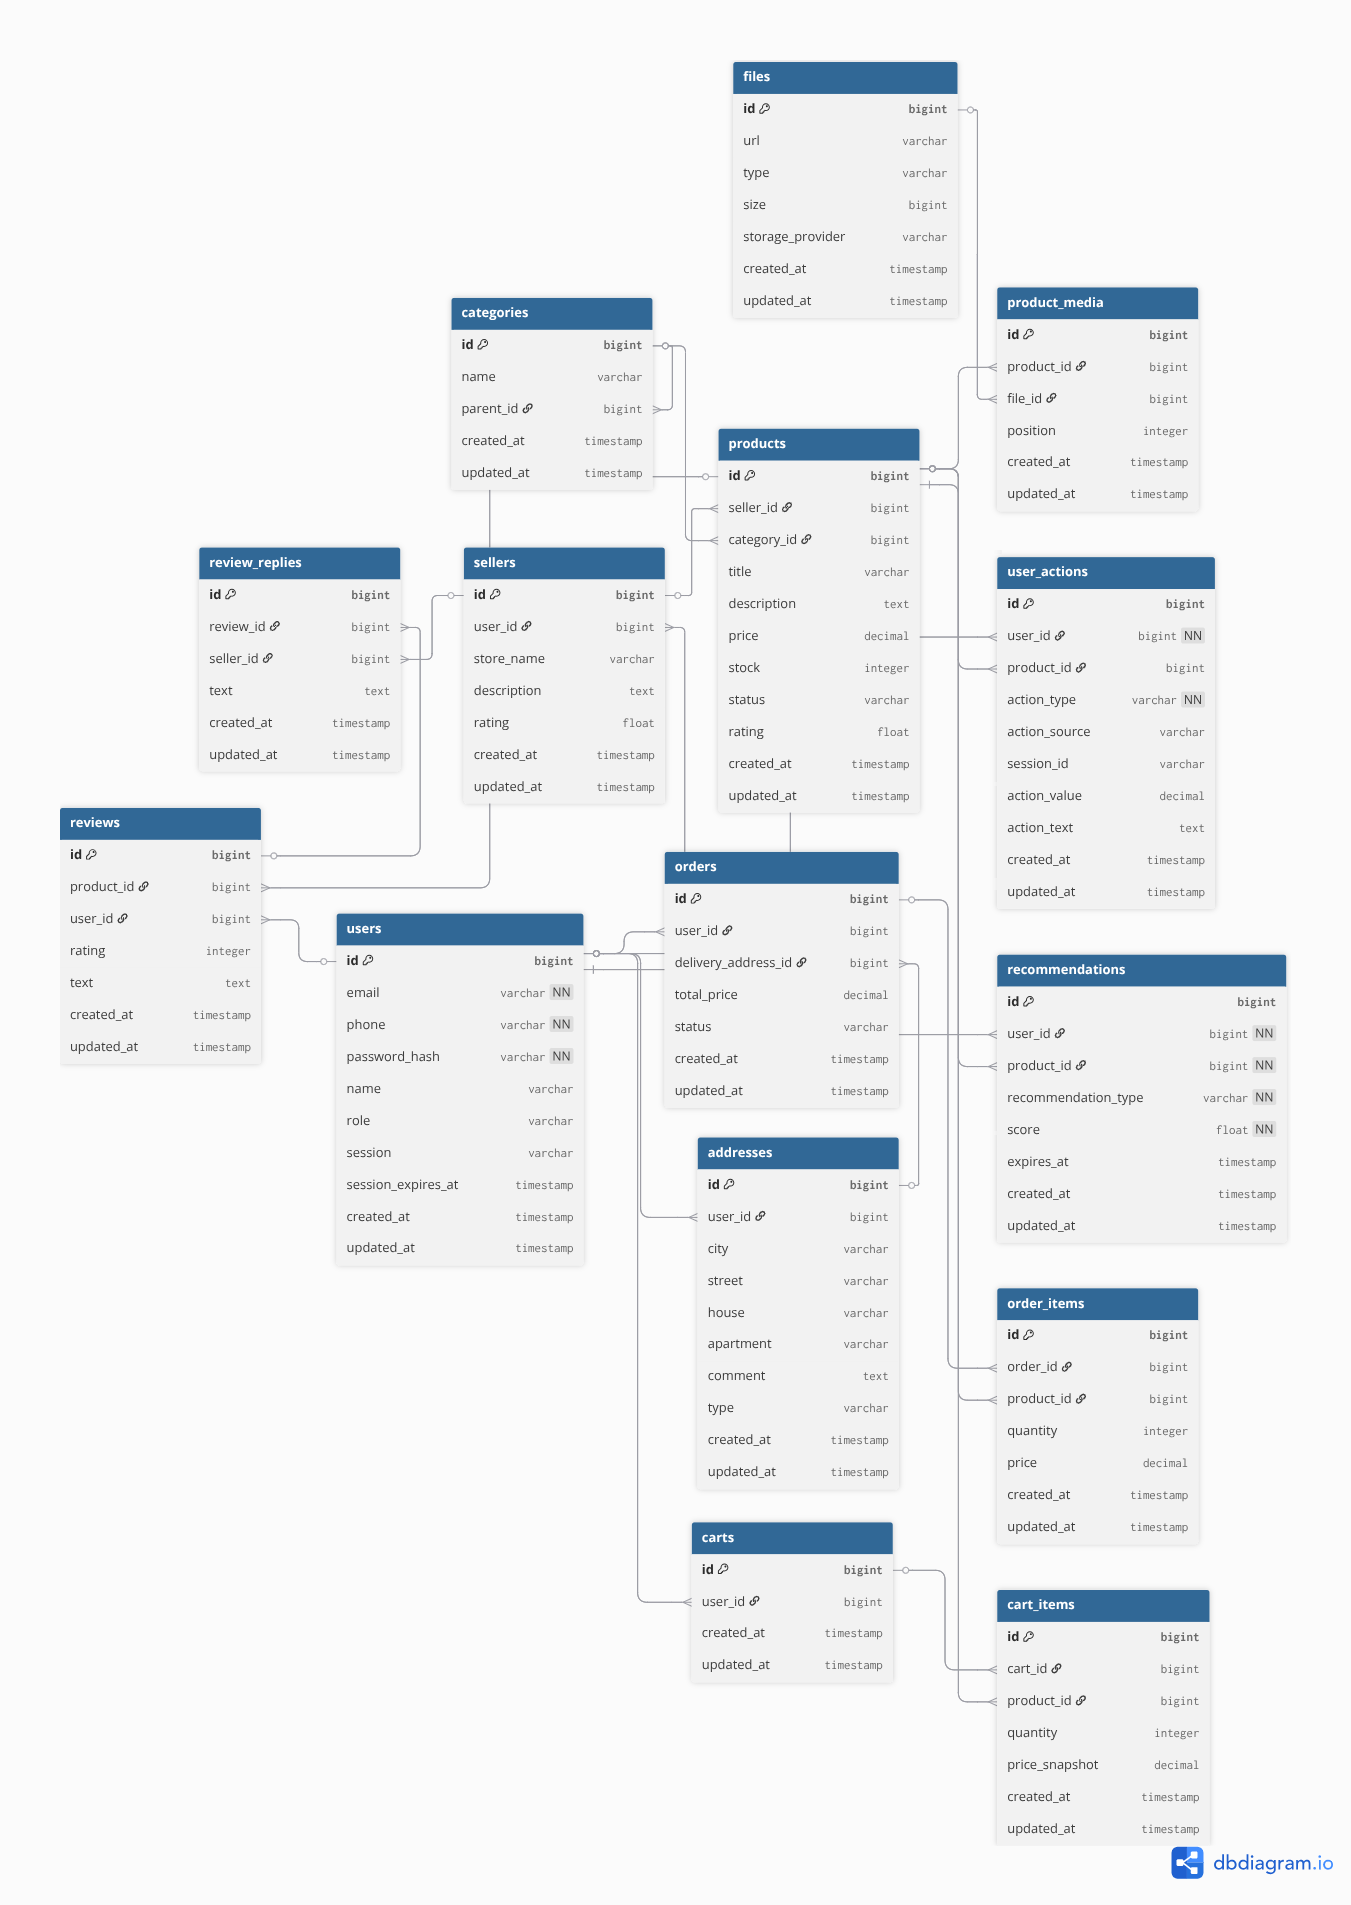
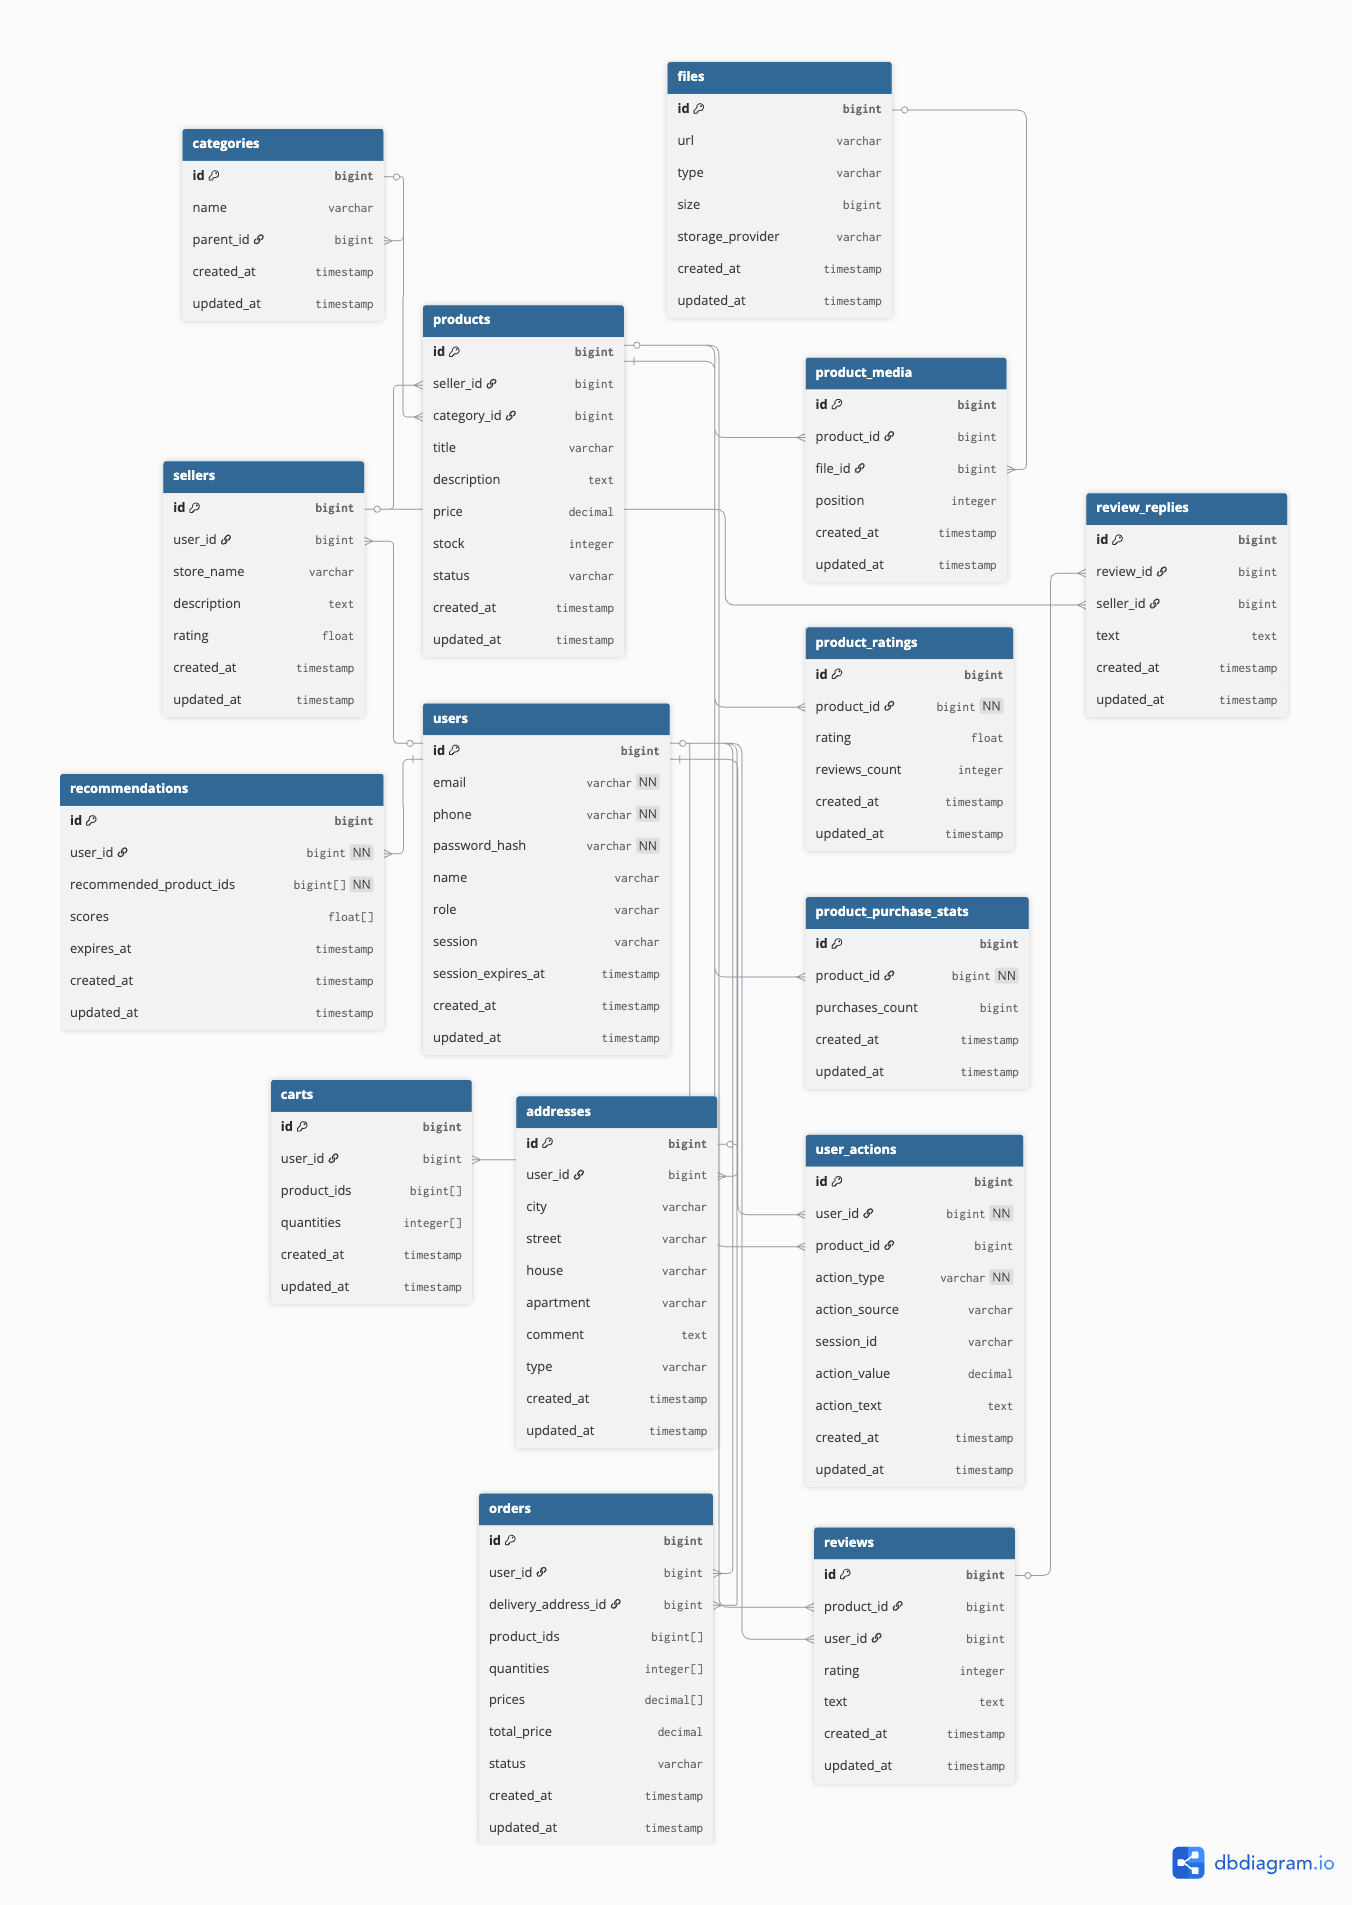
fix: logical diagram of db

diff --git a/README.md b/README.md
@@ -194,43 +194,43 @@ Ozon — один из крупнейших маркетплейсов в Рос
 
 ![Логическая схема БД](db.png)
 
-| Таблица         | Описание                                         |
-| --------------- | ------------------------------------------------ |
-| users           | Общая информация о пользователях                 |
-| sellers         | Информация о продавцах и их магазинах            |
-| products        | Основная информация о товарах                    |
-| categories      | Категории товаров                                |
-| product_media   | Связь товаров с медиафайлами                     |
-| files           | Информация о файлах (изображения товаров и т.д.) |
-| carts           | Корзины покупок пользователей                    |
-| cart_items      | Товары в корзине                                 |
-| orders          | Заказы пользователей                             |
-| order_items     | Товары в заказе                                  |
-| addresses       | Адреса доставки                                  |
-| reviews         | Отзывы пользователей о товарах                   |
-| review_replies  | Ответы продавцов на отзывы покупателей           |
-| user_actions    | Журнал действий пользователей для аналитики      |
-| recommendations | Рекомендации товаров                             |
+| Таблица | Описание |
+|---|---|
+| `users` | Общая информация о пользователях |
+| `sellers` | Информация о продавцах и их магазинах |
+| `products` | Основная информация о товарах |
+| `categories` | Категории товаров |
+| `product_media` | Связь товаров с медиафайлами |
+| `files` | Информация о файлах (изображения товаров и т.д.) |
+| `product_ratings` | Агрегированная информация о рейтинге товара и количестве отзывов |
+| `product_purchase_stats` | Агрегированная информация о количестве покупок товара |
+| `carts` | Корзины пользователей |
+| `orders` | Заказы пользователей |
+| `addresses` | Адреса доставки |
+| `reviews` | Отзывы и оценки пользователей о товарах |
+| `review_replies` | Ответы продавцов на отзывы покупателей |
+| `user_actions` | Журнал действий пользователей для аналитики |
+| `recommendations` | Персональные рекомендации товаров для пользователя |
 
 ### Расчет размеров таблиц и QPS
 
-| Название таблицы    | Расчет размера строки                                                                                                                                                         | Количество строк | Размер таблицы | Нагрузка на запись (QPS, пик) | Нагрузка на чтение (QPS, пик) |
-| ------------------- | ----------------------------------------------------------------------------------------------------------------------------------------------------------------------------- | ---------------- | -------------- | ----------------------------- | ----------------------------- |
-| **users**           | `ID(8) + email(255) + phone(20) + password_hash(60) + name(100) + role(20) + session(256) + session_expires_at(8) + created_at/updated_at(16)` <br>**≈ 743 Б**                | 83 млн           | **≈ 57.7 ГБ**  | 51                            | 49.8                          |
-| **addresses**       | `ID(8) + user_id(8) + city(100) + street(200) + house(20) + apartment(20) + comment(500) + type(20) + created_at/updated_at(16)` <br>**≈ 892 Б**                              | 166 млн          | **≈ 138 ГБ**   | 2                             | 73.6                          |
-| **sellers**         | `ID(8) + user_id(8) + store_name(255) + description(1000) + rating(8) + created_at/updated_at(16)` <br>**≈ 1.27 КБ**                                                          | 600 000          | **≈ 0.73 ГБ**  | 6.94                          | 29 860                        |
-| **categories**      | `ID(8) + name(100) + parent_id(8) + created_at/updated_at(16)` <br>**≈ 132 Б**                                                                                                | < 100 000        | **< 13 МБ**    | Редко                         | 35 832                        |
-| **products**        | `ID(8) + seller_id(8) + category_id(8) + title(255) + description(2000) + price(8) + stock(4) + status(20) + rating(8) + created_at/updated_at(16)` <br>**≈ 2.3 КБ**          | 250 млн          | **≈ 536 ГБ**   | 13.88                         | 29 860                        |
-| **files**           | `ID(8) + url(500) + type(50) + size(8) + storage_provider(50) + created_at/updated_at(16)` <br>**≈ 632 Б**                                                                    | 1.5 млрд         | **≈ 885 ГБ**   | 13.88                         | 29 860                        |
-| **product_media**   | `ID(8) + product_id(8) + file_id(8) + position(2) + created_at/updated_at(16)` <br>**≈ 42 Б**                                                                                 | 1.5 млрд         | **≈ 58.8 ГБ**  | 13.88                         | 29 860                        |
-| **carts**           | `ID(8) + user_id(8) + created_at/updated_at(16)` <br>**≈ 32 Б**                                                                                                               | 43 млн           | **≈ 1.3 ГБ**   | 614                           | 307                           |
-| **cart_items**      | `ID(8) + cart_id(8) + product_id(8) + quantity(2) + price_snapshot(8) + created_at/updated_at(16)` <br>**≈ 50 Б**                                                             | 79.5 млн         | **≈ 3.7 ГБ**   | 614                           | 307                           |
-| **orders**          | `ID(8) + user_id(8) + delivery_address_id(8) + total_price(8) + status(20) + created_at/updated_at(16)` <br>**≈ 68 Б**                                                        | 1.16 млрд        | **≈ 73.6 ГБ**  | 73.6                          | 73.6                          |
-| **order_items**     | `ID(8) + order_id(8) + product_id(8) + quantity(2) + price(8) + created_at/updated_at(16)` <br>**≈ 50 Б**                                                                     | 2.9 млрд         | **≈ 135 ГБ**   | 73.6                          | 73.6                          |
-| **reviews**         | `ID(8) + product_id(8) + user_id(8) + rating(1) + text(1000) + created_at/updated_at(16)` <br>**≈ 1.02 КБ**                                                                   | 522 млн          | **≈ 497 ГБ**   | 33.2                          | 17.4                          |
-| **review_replies**  | `ID(8) + review_id(8) + seller_id(8) + text(1000) + created_at/updated_at(16)` <br>**≈ 1.01 КБ**                                                                              | 138 млн          | **≈ 130 ГБ**   | 8.74                          | 8.74                          |
-| **user_actions**    | `ID(8) + user_id(8) + product_id(8) + action_type(50) + action_source(50) + session_id(100) + action_value(8) + action_text(500) + created_at/updated_at(16)` <br>**≈ 750 Б** | 92.7 млрд        | **≈ 64.7 ТБ**  | 35 832                        | 5 972                         |
-| **recommendations** | `ID(8) + user_id(8) + product_id(8) + recommendation_type(50) + score(8) + expires_at(8) + created_at/updated_at(16)` <br>**≈ 106 Б**                                         | 4.15 млрд        | **≈ 410 ГБ**   | 14 930                        | 29 860                        |
+| Название таблицы | Расчет размера строки | Количество строк | Размер таблицы | Нагрузка на запись (QPS, пик) | Нагрузка на чтение (QPS, пик) |
+|---|---|---:|---:|---:|---:|
+| **users** | `id(8) + email(255) + phone(20) + password_hash(60) + name(100) + role(20) + session(256) + session_expires_at(8) + created_at/updated_at(16)` <br>**≈ 743 Б** | 83 млн | **≈ 57.4 ГБ** | **57.7** | **56.7** |
+| **addresses** | `id(8) + user_id(8) + city(100) + street(200) + house(20) + apartment(20) + comment(500) + type(20) + created_at/updated_at(16)` <br>**≈ 892 Б** | 166 млн | **≈ 137.9 ГБ** | **3.7** | **73.6** |
+| **files** | `id(8) + url(500) + type(50) + size(8) + storage_provider(50) + created_at/updated_at(16)` <br>**≈ 632 Б** | 1.5 млрд | **≈ 882.9 ГБ** | **83.3** | **65 694.4** |
+| **sellers** | `id(8) + user_id(8) + store_name(255) + description(1000) + rating(8) + created_at/updated_at(16)` <br>**≈ 1.27 КБ** | 600 000 | **≈ 0.72 ГБ** | **0.01** | **6.9** |
+| **categories** | `id(8) + name(100) + parent_id(8) + created_at/updated_at(16)` <br>**≈ 132 Б** | < 100 000 | **< 13 МБ** | **редко** | **35 833.3** |
+| **products** | `id(8) + seller_id(8) + category_id(8) + title(255) + description(2000) + price(8) + stock(4) + status(20) + created_at/updated_at(16)` <br>**≈ 2.27 КБ** | 250 млн | **≈ 541.8 ГБ** | **13.9** | **65 694.4** |
+| **product_media** | `id(8) + product_id(8) + file_id(8) + position(2) + created_at/updated_at(16)` <br>**≈ 42 Б** | 1.5 млрд | **≈ 58.7 ГБ** | **83.3** | **65 694.4** |
+| **product_ratings** | `id(8) + product_id(8) + rating(8) + reviews_count(4) + created_at/updated_at(16)` <br>**≈ 44 Б** | 250 млн | **≈ 10.2 ГБ** | **33.1** | **65 694.4** |
+| **product_purchase_stats** | `id(8) + product_id(8) + purchases_count(8) + created_at/updated_at(16)` <br>**≈ 40 Б** | 250 млн | **≈ 9.3 ГБ** | **184.1** | **29 861.1** |
+| **user_actions** | `id(8) + user_id(8) + product_id(8) + action_type(50) + action_source(50) + session_id(100) + action_value(8) + action_text(500) + created_at/updated_at(16)` <br>**≈ 750 Б** | ≈ 1.05 трлн | **≈ 715 ТБ** | **66 483.0** | **6 648.3** |
+| **recommendations** | `id(8) + user_id(8) + recommended_product_ids + scores + expires_at(8) + created_at/updated_at(16)` <br>**≈ 360 Б** | 83 млн | **≈ 27.8 ГБ** | **1 921.3** | **1 493.1** |
+| **carts** | `id(8) + user_id(8) + product_ids + quantities + created_at/updated_at(16)` <br>**≈ 62 Б** | 43 млн | **≈ 2.5 ГБ** | **613.6** | **306.8** |
+| **orders** | `id(8) + user_id(8) + delivery_address_id(8) + product_ids + quantities + prices + total_price(8) + status(20) + created_at/updated_at(16)` <br>**≈ 118 Б** | 1.16 млрд | **≈ 127.5 ГБ** | **73.6** | **73.6** |
+| **reviews** | `id(8) + product_id(8) + user_id(8) + rating(1) + text(1000) + created_at/updated_at(16)` <br>**≈ 1.02 КБ** | ≈ 276 млн | **≈ 267.6 ГБ** | **17.5** | **2 986.1** |
+| **review_replies** | `id(8) + review_id(8) + seller_id(8) + text(1000) + created_at/updated_at(16)` <br>**≈ 1.02 КБ** | ≈ 138 млн | **≈ 133.5 ГБ** | **8.7** | **2 986.1** |
 
 ## Источники:
 